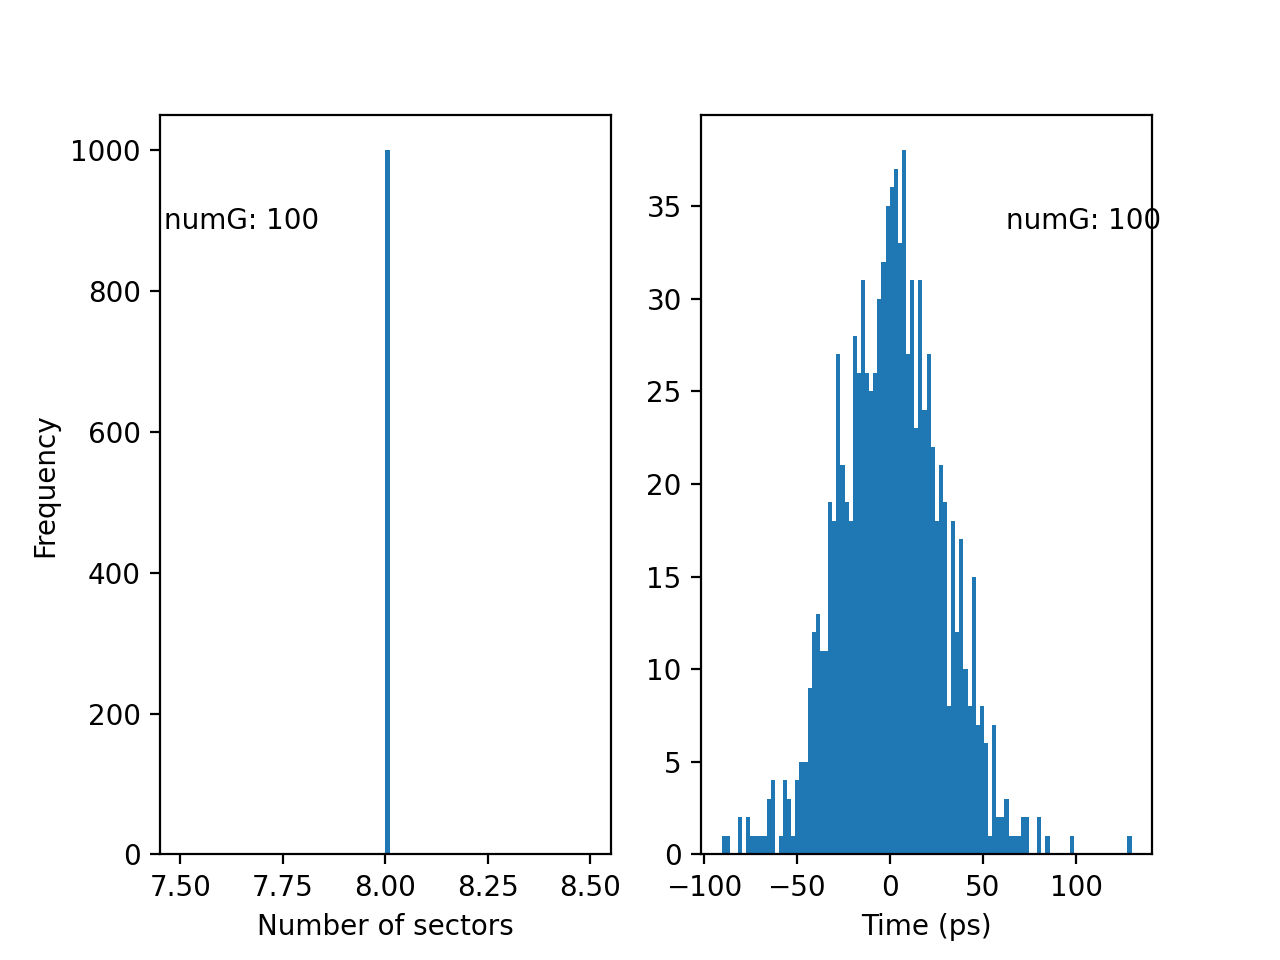
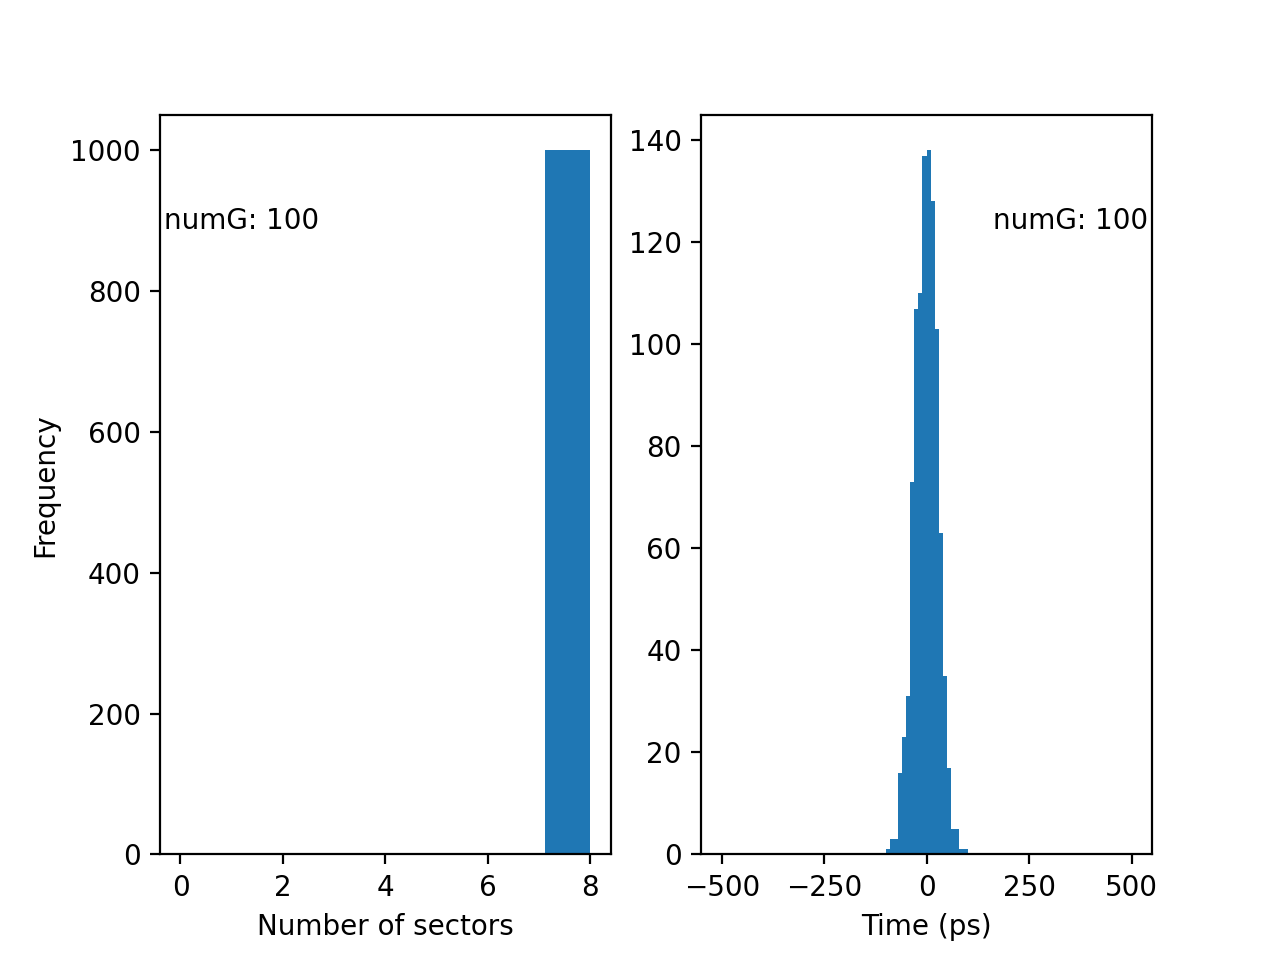
made final edits to the code

diff --git a/new_pressure.py b/new_pressure.py
@@ -347,20 +347,26 @@ def photonScan(numG,numR,bool,numG_array):
 			numC,_,_,_,_,time= photonGeneration(radius,mass,b_min,b_max,numG)
 			coin_array[i] = numC  
 			time_array[i] = time
-		bins_c,val_c,_ = ax6[0].hist(coin_array,bins_Gscan)
+		bins_c,val_c,_ = ax6[0].hist(coin_array,bins=9,range=(0,8))
 		x_max1 = max(val_c)
 		y_max1 = max(bins_c)
-		#print("sector max:",x_max1,",",y_max1)
-		ax6[0].annotate("numG: %i" % num,(x_max1*0.9,y_max1*0.9),ha='center',va='center')
+		if numG > 1:
+			ax6[0].annotate("numG: %i" % num,(x_max1*0.15,y_max1*0.9),ha='center',va='center')
+		else: 
+			ax6[0].annotate("numG: %i" % num,(x_max1*0.85,y_max1*0.9),ha='center',va='center')
 		ax6[0].set_xlabel("Number of sectors")
 		ax6[0].set_ylabel("Frequency")
 		#create the time histogram 
-		bins_t,val_t,_ = ax6[1].hist(time_array,bins_Gscan)
+		bins_t,val_t,_ = ax6[1].hist(time_array,bins_Gscan,range=(-500,500))
 		x_max2 = max(val_t)
 		y_max2 = max(bins_t)
 		#print("time max:",x_max2,",",y_max2)
-		ax6[1].annotate("numG: %i" % num,(x_max2*0.8,y_max2*0.9),ha='center',va='center')
+		if numG > 99:
+			ax6[1].annotate("numG: %i" % num,(x_max2*0.7,y_max2*0.9),ha='center',va='center')
+		else:
+			ax6[1].annotate("numG: %i" % num,(x_max2*0.75,y_max2*0.9),ha='center',va='center')
 		ax6[1].set_xlabel("Time (ps)")
+		print("bins_Gscan:",bins_Gscan)
 	#mode 2: use outputs from many histograms and many numG to create 2D histogram
 	else: 	
 		#generate 2D histograms for many numG 
